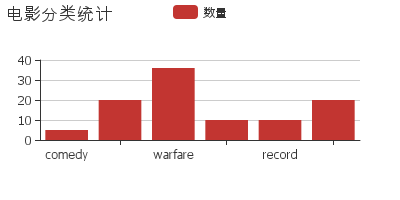
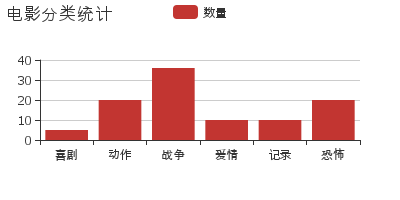
readme.md modify

diff --git a/server.js b/server.js
@@ -7,8 +7,8 @@ const compression = require('compression')
 const microcache = require('route-cache')
 const resolve = file => path.resolve(__dirname, file)
 const { createBundleRenderer } = require('vue-server-renderer')
-const { generateImage } = require('./canvas-echart.js')
-var serverData = require('./server-data.js');
+const { generateImage } = require('./server/canvas-echart.js')
+var serverData = require('./server/server-data.js');
 
 // process.env.NODE_ENV 为 undefined
 const isProd = process.env.NODE_ENV === 'production'
@@ -66,7 +66,7 @@ const serve = (path, cache) => express.static(resolve(path), {
 })
 
 app.use(compression({ threshold: 0 }))
-app.use(favicon('./public/logo-48.png'))
+app.use(favicon('./public/favicon.png'))
 app.use('/dist', serve('./dist', true))
 app.use('/public', serve('./public', true))
 app.use('/manifest.json', serve('./manifest.json', true))

diff --git a/server/server-data.js b/server/server-data.js
@@ -54,7 +54,7 @@ module.exports.option1 = {
         data:['数量']
     },
     xAxis: {
-        data: ['comedy','action','warfare','love','record','terror']
+        data: ['喜剧','动作','战争','爱情','记录','恐怖']
     },
     yAxis: {},
     series: [{
@@ -86,7 +86,7 @@ module.exports.option2 = {
             radius : '55%',
             center: ['50%', '60%'],
             data:[
-                {value:5, name:'comedy'},
+                {value:5, name:'喜剧'},
                 {value:20, name:'动作'},
                 {value:36, name:'战争'},
                 {value:10, name:'爱情'},

diff --git a/build/webpack.base.config.js b/build/webpack.base.config.js
@@ -45,14 +45,13 @@ module.exports = {
           name: '[name].[ext]?[hash]'
         }
       },
-      {
-        test: /\.css$/,
-        loader: ["vue-style-loader", "css-loader"]
-        // loader: 'style-loader!css-loader'
-      },
       { //下面这段是vue2.0需要的scss配置
         test: /\.scss$/,
         loaders: ["vue-style-loader","css-loader", "sass-loader"]
+      },
+      {
+        test: /\.css$/,
+        loader: ["vue-style-loader", "css-loader"]
       },
       {
         test: /\.(eot|svg|ttf|woff|woff2)(\?\S*)?$/,

diff --git a/README.md b/README.md
@@ -3,30 +3,30 @@
 HackerNews clone built with Vue 2.0 + vue-router + vuex, with server-side rendering.
 
 <p align="center">
-   <img src="https://github.com/fengshi123/vue-ssr/blob/master/public/demo1.png" width="700px">
-   <img src="https://github.com/fengshi123/vue-ssr/blob/master/public/demo2.png" width="700px">
-   <img src="https://github.com/fengshi123/vue-ssr/blob/master/public/demo3.png" width="700px">
+   <img src="https://github.com/fengshi123/vue-ssr/blob/master/public/demo1.png" width="1000px">
+   <img src="https://github.com/fengshi123/vue-ssr/blob/master/public/demo2.png" width="1000px">
+   <img src="https://github.com/fengshi123/vue-ssr/blob/master/public/demo3.png" width="1000px">
 </p>
 
 ## 特点
 
-> Note: 这个项目是在尤大大给出的官方demo实例 HackerNews Demo 上进行改造的，去除一些需要翻墙才可用的API，并且这个项目结合vue最受欢迎的组件库element-ui，和可视化插件echarts，帮助国内ssr初学者更容易入门。
+> Note: 这个项目是在尤大大给出的官方demo实例 HackerNews Demo 上进行改造的，克服尤大大给的 HackerNews Demo 需要翻墙才能运行起来的问题，新手在阅读SSR官方文档时，如果遇到疑惑点，可以直接在本文实例的基础上进行相关实验验证，从而解决疑惑，帮助国内ssr初学者更容易入门；并且本实例使用最受欢迎的vue ui库element-ui组件库和可视化echarts插件，演示如何在ssr中使用ui库以及进行数据可视化等。
 
 ## SSR 结构示意图
 
 <img width="973" alt="screen shot 2016-08-11 at 6 06 57 pm" src="https://cloud.githubusercontent.com/assets/499550/17607895/786a415a-5fee-11e6-9c11-45a2cfdf085c.png">
 
-**vue ssr 官方demo见连接 [here](https://ssr.vuejs.org).**
+**vue ssr 官方文档见连接 [here](https://ssr.vuejs.org).**
 
 ## 构建步骤
 
-**需要 Node.js 7+**
+**需要 Node.js 7+ （作者使用的版本为：node.js 8.2.1  npm 5.3.0）**
 
 ``` bash
 # install dependencies
-npm install # or yarn
+npm install
 
-# serve in dev mode, with hot reload at localhost:8080
+# serve in dev mode, with hot reload at localhost:80
 npm run dev
 
 # build for production
